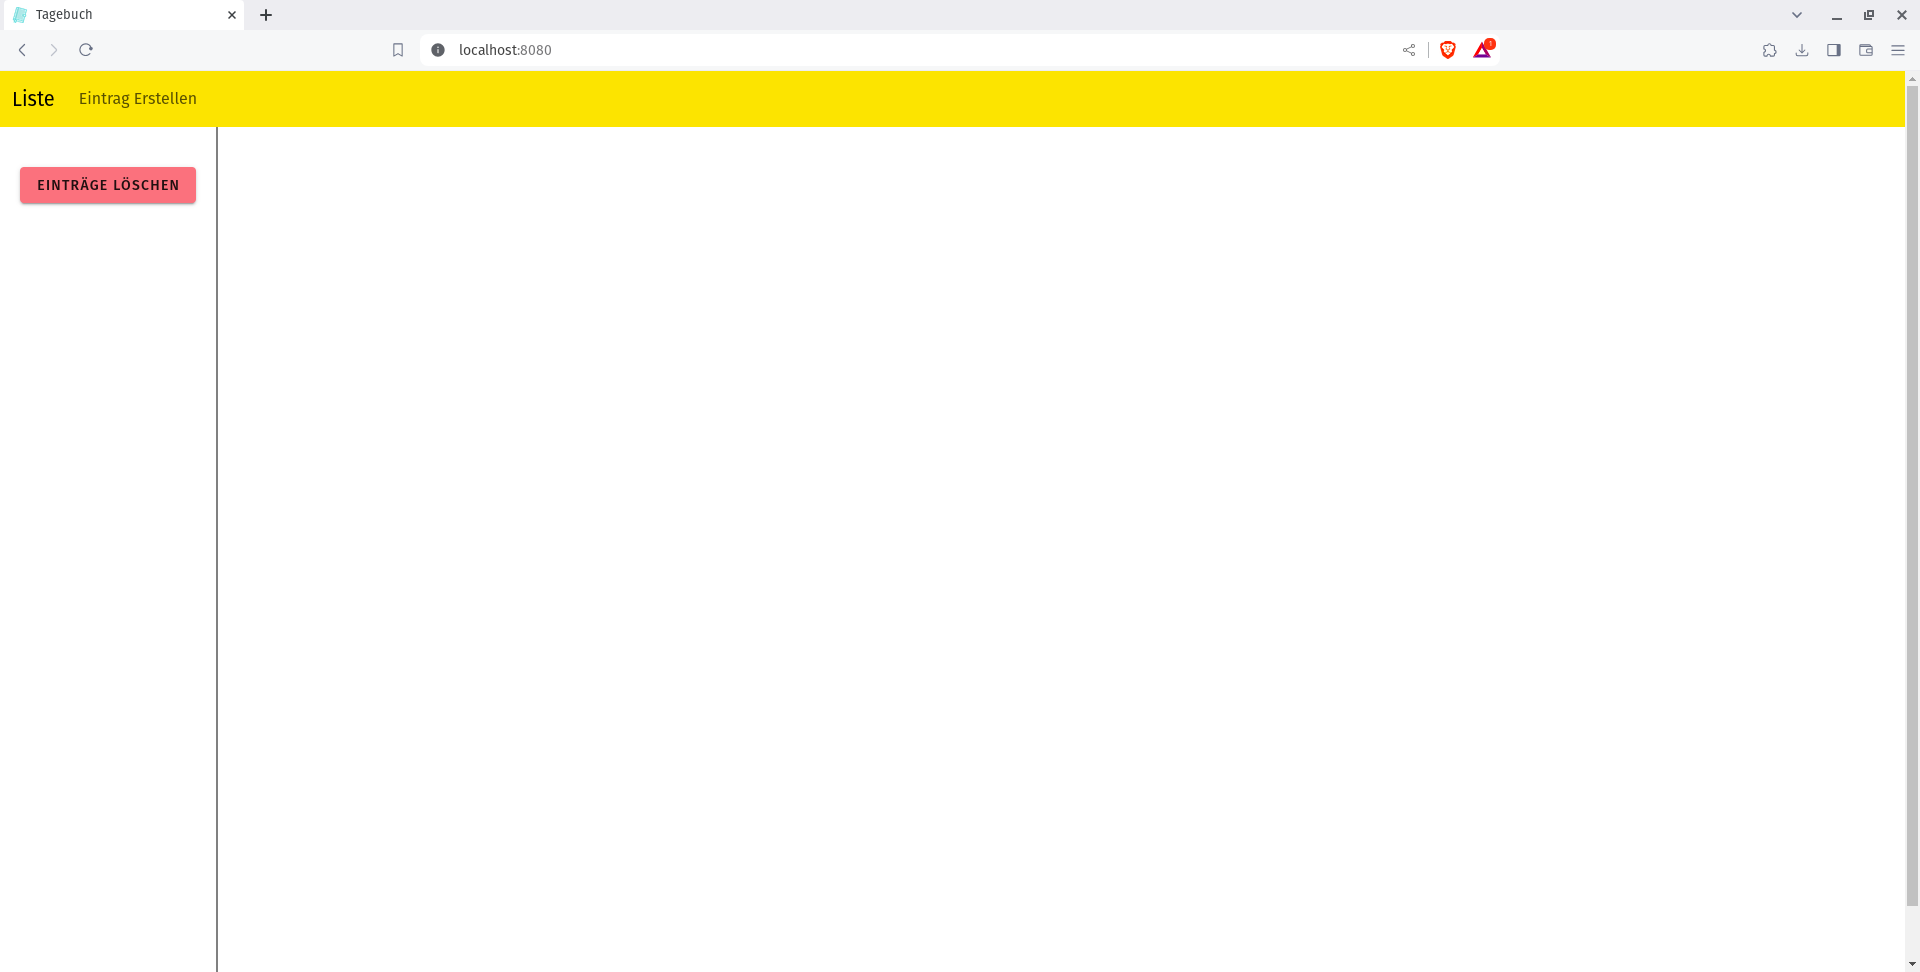
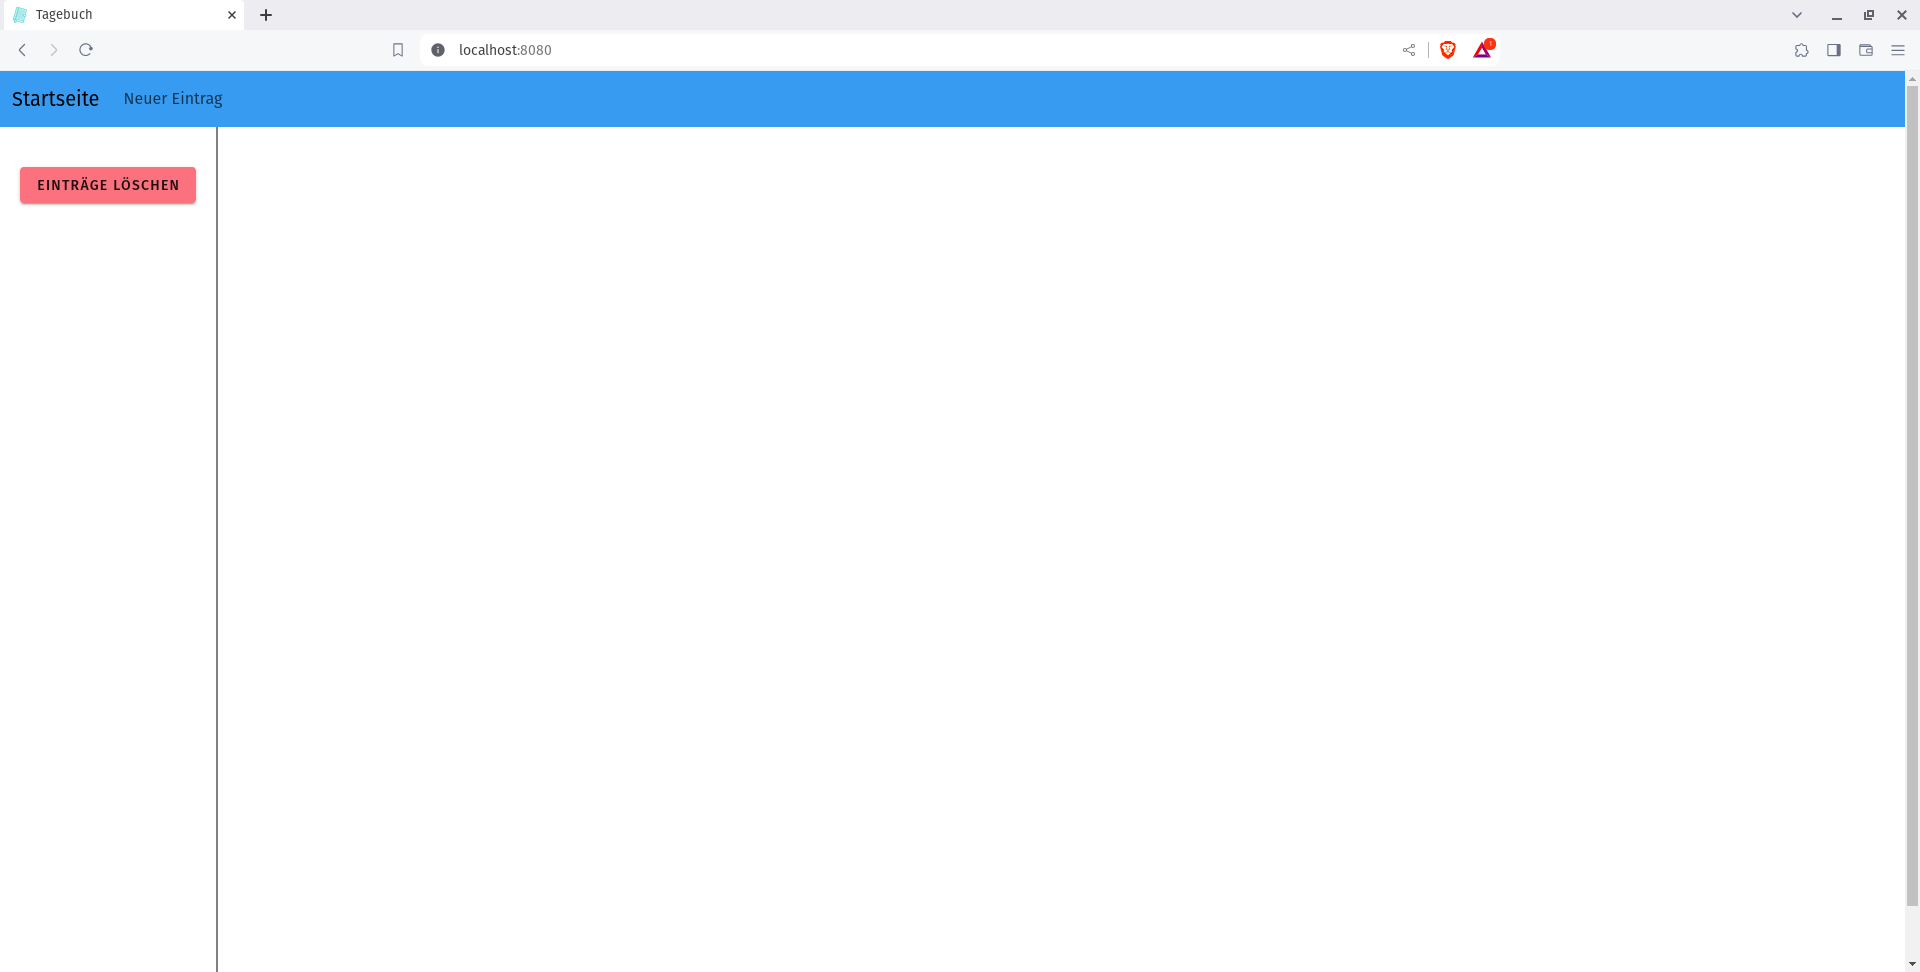
update

Changed region(s): [[0.0, 0.0617, 1.0, 0.1543]]

diff --git a/src/components/NewEntry.vue b/src/components/NewEntry.vue
@@ -1,11 +1,13 @@
 <template>
+  <div class="mt-10">
   <h1 class="mt-5"> {{ this.warning }}
 </h1>
-  <div class="block">
+  <div class="block ">
     <v-textarea label="Liebes Tagebuch..." letiant="solo-filled"  auto-grow v-model="entry.entry"></v-textarea>
     <v-btn @click="createEntry()">
       {{this.bttext}}
     </v-btn>
+  </div>
   </div>
   
 </template>
@@ -113,7 +115,7 @@ export default {
       let todaysDate = this.getTodaysDate();
       for (let i = 0; i < this.data.length; i++) {
         if (this.data[i].date == todaysDate) {
-          this.bttext = "update"
+          this.bttext = "Aktualisieren"
           this.id = this.data[i].id
           this.entryExists= true
           this.warning = "Eintrag für den heutigen Tag existiert bereits! Der bestehende Eintrag wird überschrieben!"

diff --git a/src/components/NavBar.vue b/src/components/NavBar.vue
@@ -2,8 +2,8 @@
  <nav class="navbar navbar-expand-lg">
   <div class="container-fluid">
       <div class="navbar-nav">
-     <router-link to="/" class="navbar-brand">Liste</router-link>
-        <a class="nav-link" href="/NeuerEintrag">Eintrag Erstellen</a>
+     <router-link to="/" class="navbar-brand">Startseite</router-link>
+        <a class="nav-link" href="/NeuerEintrag">Neuer Eintrag</a>
       </div>
     </div>
 </nav>
@@ -19,6 +19,6 @@ export default {
 <!-- Add "scoped" attribute to limit CSS to this component only -->
 <style scoped>
 .navbar{
-  background-color: gold;
+  background-color: rgb(54, 167, 238);
 }
 </style>

diff --git a/src/components/MyDiary.vue b/src/components/MyDiary.vue
@@ -14,7 +14,7 @@
               <v-card-text>
                 {{ entry.entry }} </v-card-text>
               <v-card-actions>
-                <v-btn color="primary" block @click="dialog = false">Eintrag schließen</v-btn>
+                <v-btn color="primary" block @click="dialog = false">Schließen</v-btn>
               </v-card-actions>
             </v-card>
           </v-dialog>

diff --git a/laravelBackend/database/migrations/2024_02_03_210821_create_entries_table.php b/laravelBackend/database/migrations/2024_02_03_210821_create_entries_table.php
@@ -13,7 +13,7 @@ return new class extends Migration
     {
         Schema::create('entries', function (Blueprint $table) {
             $table->increments('id');
-            $table->string('entry');
+            $table->text('entry');
             $table->date('date');
             $table->timestamps();
 
